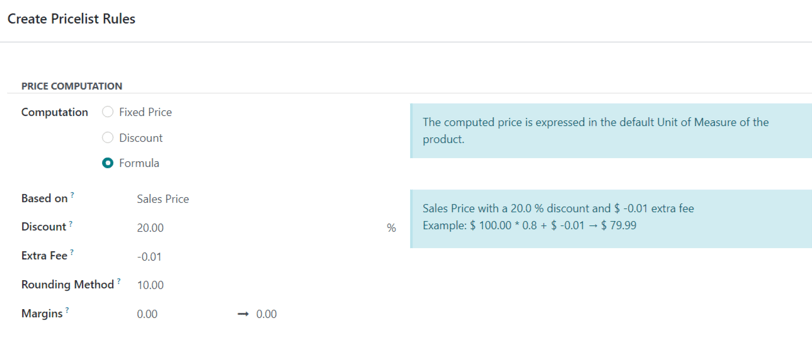
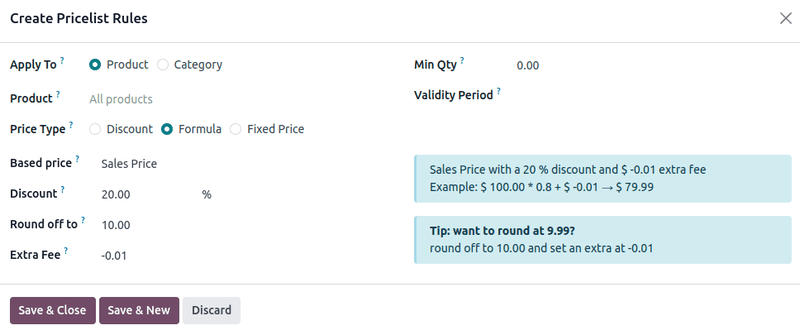
[IMP] sales: pricelists tabs
closes odoo/documentation#11918

diff --git a/content/applications/sales/sales/products_prices/prices/pricing.rst b/content/applications/sales/sales/products_prices/prices/pricing.rst
@@ -85,9 +85,26 @@ From here, there are several configuration options:
 
   - :guilabel:`Discount`: Enter the percentage to be discounted. A mark-up can be configured by
     using a negative value in this field.
+
+    .. important::
+       If a pricelist is applied to a sales quotation with the discount :guilabel:`Price Type` set
+       as :guilabel:`Discount`, the discount will visible to the customer.
+
+       .. image:: pricing/sales-pricelist-pricerule-discount.png
+          :alt: A pricelist rule using Price Type: Discount to create a discount.
+
+       .. image:: pricing/sales-pricelist-pricerule-discount-customer.png
+          :alt: How a pricelist rule using Price Type: Discount appears on customer preview.
+
   - :guilabel:`Formula`: Calculate the pricelist rules based the following configuration:
 
-    - :guilabel:`Discount`: Percentage discount to be applied.
+    - :guilabel:`Discount`: Percentage discount to be applied. Negative values can be entered to
+      increase prices.
+
+    .. important::
+       If a pricelist is applied to a sales quotation with the discount :guilabel:`Price Type` set
+       as :guilabel:`Formula`, the discount will *not* be visible to the customer.
+
     - :guilabel:`Round off to`: Numerical value to act as round-off multiple, to be applied after
       discount. The rounding method sets the price so that it is a multiple of the value in this
       field.
@@ -106,9 +123,9 @@ From here, there are several configuration options:
   applied to quotations.
 
 .. example::
-   To formulate a 100% markup (or 2 times the cost of the product), with a $5 minimum margin, set
-   the :guilabel:`Based on` field to :guilabel:`Cost`, the :guilabel:`Discount` to `-100`, and the
-   :guilabel:`Margins` to `5`. This is often seen in retail situations.
+   To formulate a 100% markup (or two times the price of the product), with a $5 minimum margin, set
+   the :guilabel:`Based price` field to :guilabel:`Sales Price` and the :guilabel:`Discount` to
+   `-100`. This is often seen in retail situations.
 
    .. image:: pricing/formula-markup-cost-example.png
       :alt: How it looks to formulate a markup cost with 5 dollar minimum margin in Odoo Sales.
@@ -129,24 +146,30 @@ Recurring Prices tab
 --------------------
 
 Recurring prices are specifically used with :doc:`subscription products
-<../../../subscriptions/products>`.
+<../../../subscriptions/products>`. When configuring price rules in this tab, keep in mind that
+they will only apply to subscription products, or products with recurring prices enabled.
 
-Under the :guilabel:`Recurring Prices` tab, the same functionality of the :guilabel:`Price Rules`
-tab is present. The only difference being that a recurring time period can be applied in the
-:guilabel:`Recurring Plan` column.
+In the :guilabel:`Recurring Prices` tab, pricelists are configured with the same options as in the
+:guilabel:`Price Rules` tab, with additional columns for :guilabel:`Product Variants` add
+:guilabel:`Recurring Plan`.
 
-Once :guilabel:`Products` and/or :guilabel:`Product Variants` are selected, click :guilabel:`Add a
-price rule`, and select the blank field in the :guilabel:`Recurring Plan` column to reveal a
-drop-down menu of pre-designated recurrence periods (e.g. `Monthly`, `Quarterly`, `Weekly`, etc.).
+:guilabel:`Product Variants` are configured under products that have one or more values, such as
+color, size, etc. Once a product has been selected under the :guilabel:`Products Tab`, if
+applicable, select the desired product variants to be included in the price rule.
+
+Then, select the blank field in the :guilabel:`Recurring Plan` column to reveal a drop-down menu of
+pre-designated recurrence periods (e.g. `Monthly`, `Quarterly`, `Weekly`, etc.).
+
+.. image:: pricing/sales-pricelist-recurringprices.png
+   :alt: The recurring prices tab in a pricelist configuration form.
 
 New recurrence periods can also be created from this column. To do so, type in the name for the new
 :guilabel:`Recurring Plan`, then select :guilabel:`Create` from the resulting drop-down menu to
-create the time period, which can be edited later.
-
-Or, select :guilabel:`Create and edit...` to reveal a :guilabel:`Create Recurring Plan` pop-up form.
-From this pop-up form, the new recurrence period can be configured, with specific
-:guilabel:`Details`, :guilabel:`Self-Service`, and :guilabel:`Pricing` options. When the
-configurations are complete, click the :guilabel:`Save & Close` button.
+create the time period, which can be edited later. Alternatively, select :guilabel:`Create and
+edit...` to reveal a :guilabel:`Create Recurring Plan` pop-up form. From this pop-up form, the new
+recurrence period can be configured, with specific :guilabel:`Details`, :guilabel:`Self-Service`,
+and :guilabel:`Pricing` options. When the configurations are complete, click the :guilabel:`Save &
+Close` button.
 
 .. image:: pricing/time-period-popup.png
    :align: center
@@ -161,9 +184,9 @@ column.
 Rental rules tab
 ----------------
 
-Under the :guilabel:`Rental rules` tab, specific price rules can be configured for various rental
-products, using the same methodology as the :guilabel:`Price Rules` and :guilabel:`Recurring Prices`
-tabs.
+Price rules can be configured for :doc:`rental products <../../../rental>` under the
+:guilabel:`Rental rules` tab, using the same methodology as the :guilabel:`Price Rules` and
+:guilabel:`Recurring Prices` tabs.
 
 To add a rental rule, click :guilabel:`Add a line`, and select a desired product in the
 :guilabel:`Products` column. Then, select any specific :guilabel:`Variants`, if necessary.
@@ -172,43 +195,24 @@ Next, designate a :guilabel:`Period` of time for the rental rule (e.g. `Daily`, 
 
 Lastly, configure a :guilabel:`Price` for the rental rule in the respective column.
 
-Configuration tab
------------------
+.. image:: pricing/sales-pricelist-rental.png
+   :alt: The rental tab in a pricelist configuration form.
 
-Under the :guilabel:`Configuration` tab, there are a few options that can further customize the
-pricelist.
+Ecommerce Tab
+-------------
 
-.. image:: pricing/configuration-tab.png
-   :align: center
-   :alt: Configuration tab on pricelist detail form in Odoo Sales.
+Under the :guilabel:`Ecommerce` tab, price rules can be configured for products sold on an
+:doc:`Ecommerce website <../../../../websites/ecommerce/products>`.
 
-From here, under the :guilabel:`Availability` section, in the :guilabel:`Country Groups` field,
-certain country groups can be added to the pricelist. There is no limit to how many country groups
-can be added in this field.
+To enable the pricelist to be visible, select the target website in the :guilabel:`Website` field.
 
-.. note::
-   If no country is set for a customer, Odoo takes the first pricelist without any country group.
+The :guilabel:`Selectable` can be enabled to allow the customer to choose this pricelist.
 
-Under the :guilabel:`Website` section, there are a few options that can be configured. In the
-:guilabel:`Website` field, this pricelist can be applied to a specific website, if working in a
-multi-website environment. If left blank, the pricelist is applied to all websites in the database.
+Finally, promotional and loyalty codes can be added to the :guilabel:`E-commerce Promotional Code`
+field.
 
-Tick the :guilabel:`Selectable` checkbox to have this pricelist as a selectable option for
-customers to choose as they shop. If the :guilabel:`Selectable` box is left unticked, customers
-**cannot** select this pricelist for themselves.
-
-Lastly, there is the option to add an :guilabel:`E-commerce Promotional Code`. To add a code, type
-in the desired promo code that, when entered during the checkout process, applies the pricelist to
-the customer, even if the customer does not fall into the previously-specified criteria.
-
-Then, in the :guilabel:`Discounts` section, there is a :guilabel:`Discount Policy` field with two
-options to choose from: :guilabel:`Discount included in the price` or :guilabel:`Show public price &
-discount to the customer`.
-
-If :guilabel:`Discount included in the price` is selected, the price shown to the customer already
-accounts for the discount being applied. However, if :guilabel:`Show public price & discount to the
-customer` is selected, the customer sees the actual public price *and* how much they are saving with
-this pricelist discount.
+.. image:: pricing/sales-pricelist-ecommerce.png
+   :alt: The Ecommerce tab in a pricelist configuration form.
 
 Customer pricelist application
 ==============================
